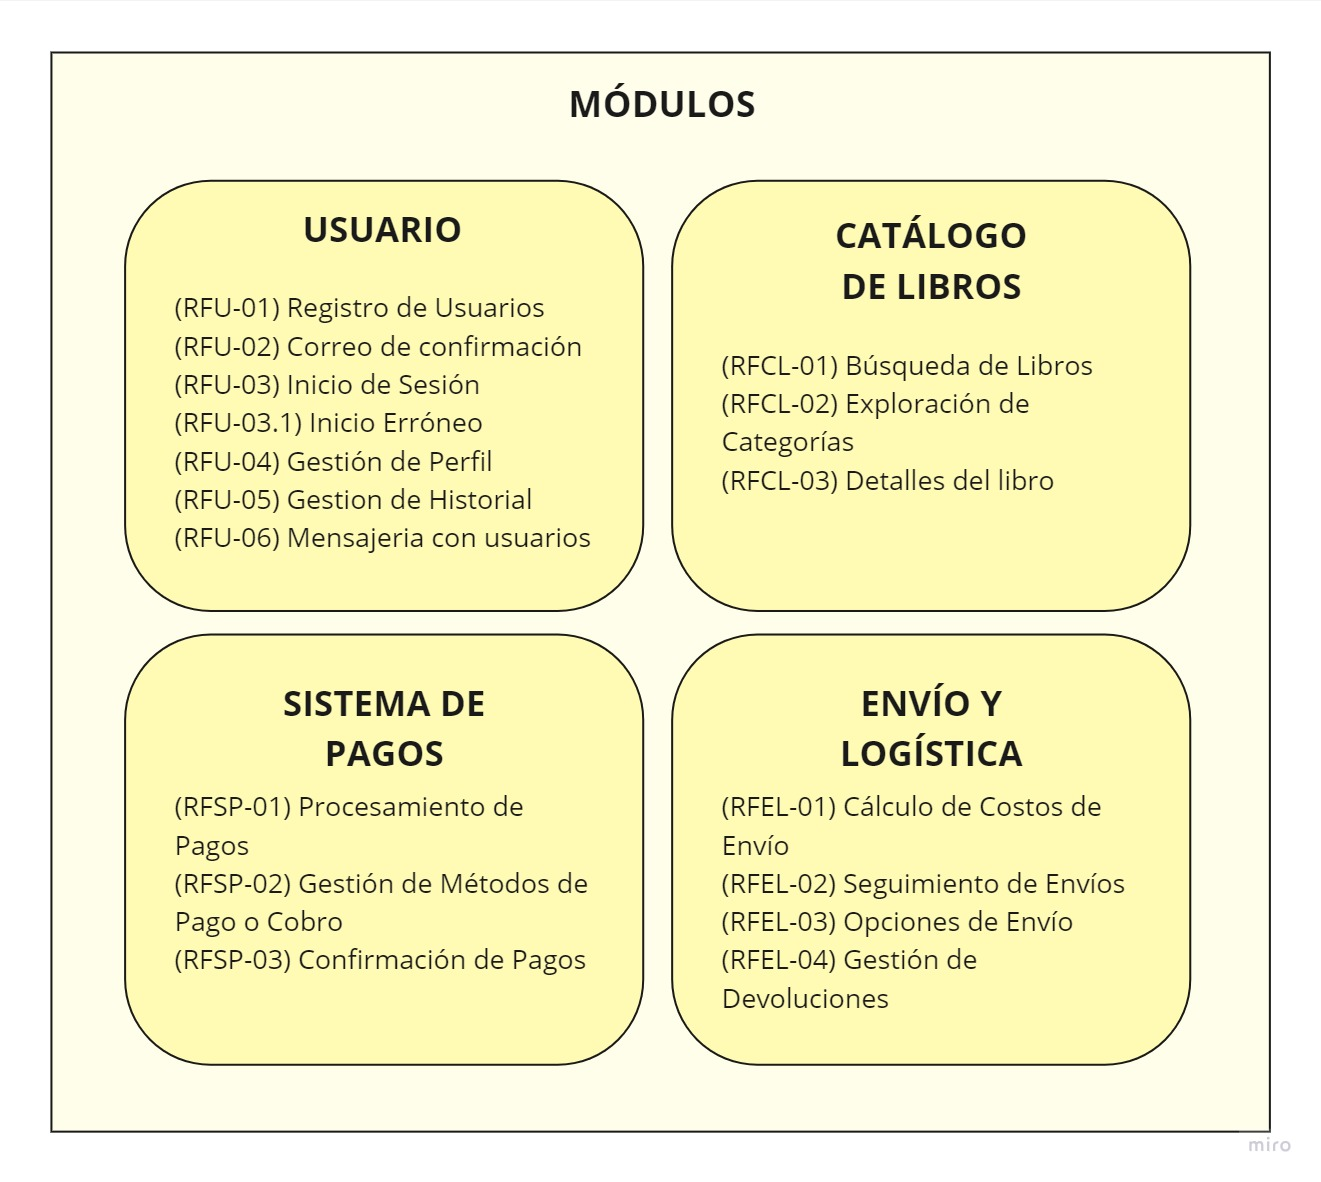
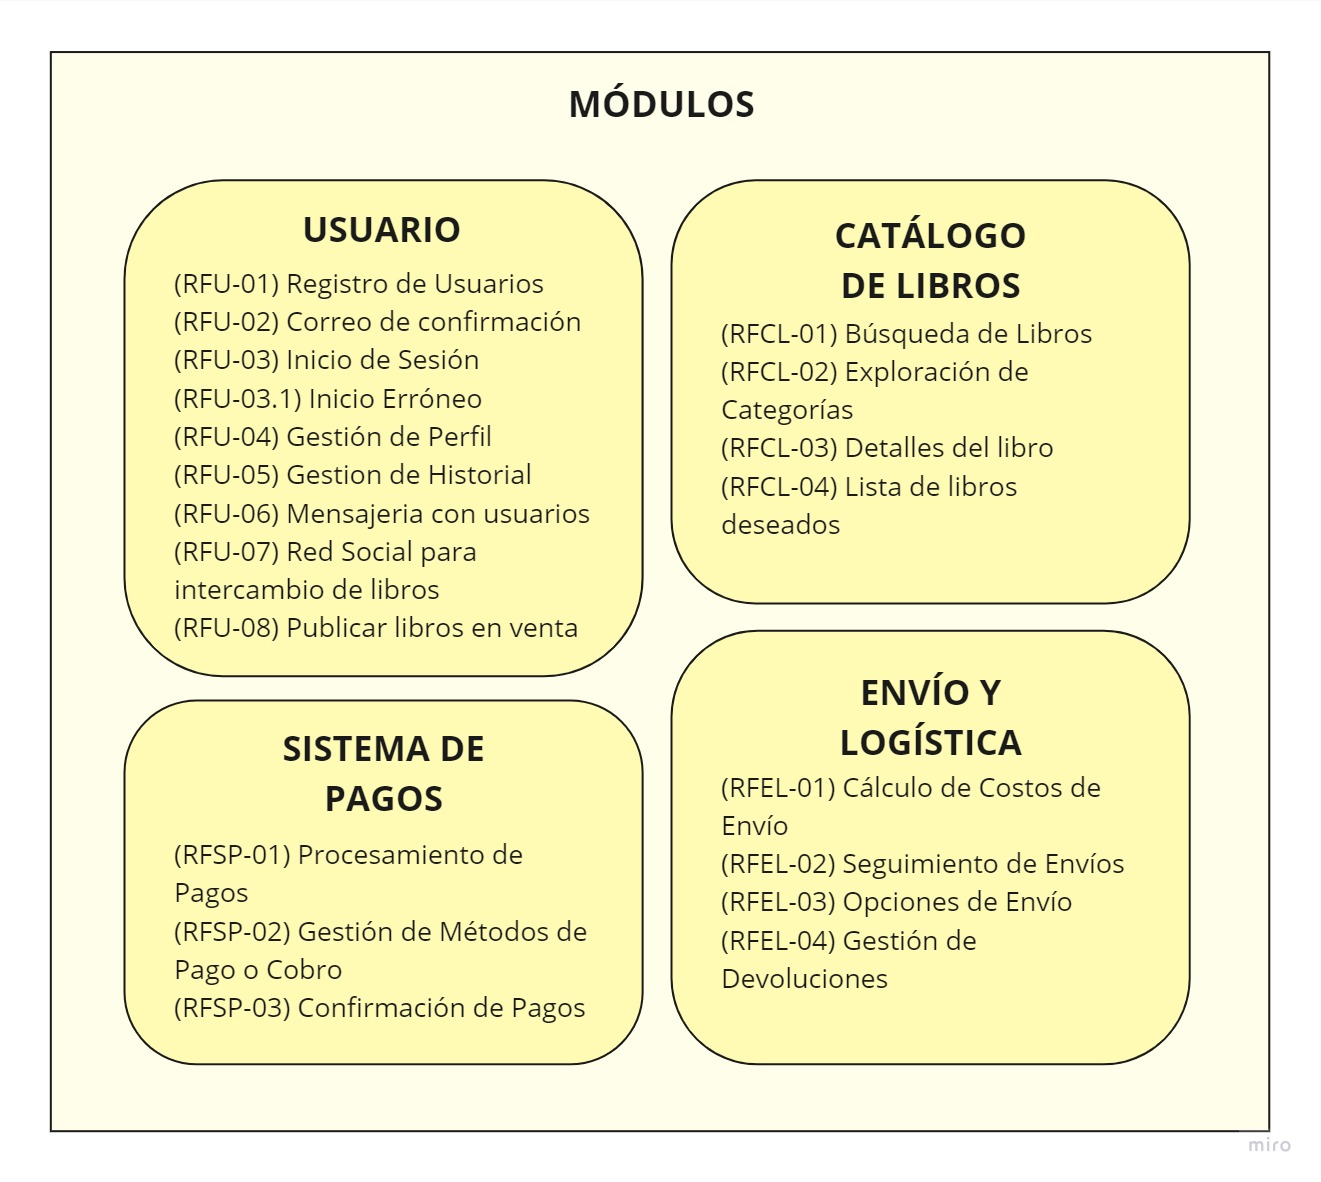
commit #

diff --git a/Bookswap.md b/Bookswap.md
@@ -163,35 +163,35 @@ Los stakeholders seleccionados para este trabajo son:
 #### 2.1.1. Usuario (Alex)
 
 
-- <b> Registro de Usuarios</b>: Los usuarios deben poder registrarse en la plataforma proporcionando información como nombre, dirección de correo electrónico y contraseña.
-- <b>Correo de confirmación</b>: Los usuarios recibiran un correo electrónico de confirmación para verificar la dirección de correo electrónico del usuario.
-- <b>Inicio de Sesión</b>: Los usuarios registrados deben poder iniciar sesión en sus cuentas utilizando su correo electrónico y contraseña.
-- <b>Inicio Erróneo</b>: Los usuarios en caso ingresen credenciales incorrectas, el sistema debe mostrar un mensaje de error, indicando que ingresen correctamente sus credenciales.
-- <b>Gestión de Perfil</b>: Los usuarios pueden editar su perfil, incluyendo información personal como nombre, dirección , contraseña y foto de perfil.
-- <b>Gestion de Historial</b>: Los usuarios pueden ver y editar su historial de intercambio de libros.
-- <b>Mensajeria con usuarios</b>: Los usuarios pueden enviar mensajes privados a los potenciales compradores/vendedores. 
-- <b> Red Social para intercambio de libros</b>: Los usuarios van a poder subir publicaciones en su página principal de los libros que les gusta o para ofrecer un intercambio, se podra dar me gusta a las publicaciones y comentar los posts, además se podrá agregar amigos.
- - <b> Publicar libros en venta </b>: Los usuarios pueden subir la información de los libros que quieren vender.
+- **Registro de Usuarios (RFU-01)**: Los usuarios deben poder registrarse en la plataforma proporcionando información como nombre, dirección de correo electrónico y contraseña.
+- **Correo de confirmación (RFU-02)**: Los usuarios recibiran un correo electrónico de confirmación para verificar la dirección de correo electrónico del usuario.
+- **Inicio de Sesión (RFU-03)**: Los usuarios registrados deben poder iniciar sesión en sus cuentas utilizando su correo electrónico y contraseña.
+- **Inicio Erróneo (RFU-03.1)**: Los usuarios en caso ingresen credenciales incorrectas, el sistema debe mostrar un mensaje de error, indicando que ingresen correctamente sus credenciales.
+- **Gestión de Perfil (RFU-04)**: Los usuarios pueden editar su perfil, incluyendo información personal como nombre, dirección , contraseña y foto de perfil.
+- **Gestion de Historial (RFU-05)**: Los usuarios pueden ver y editar su historial de intercambio de libros.
+- **Mensajeria con usuarios (RFU-06)**: Los usuarios pueden enviar mensajes privados a los potenciales compradores/vendedores. 
+- **Red Social para intercambio de libros (RFU-07)**: Los usuarios van a poder subir publicaciones en su página principal de los libros que les gusta o para ofrecer un intercambio, se podra dar me gusta a las publicaciones y comentar los posts, además se podrá agregar amigos.
+ - **Publicar libros en venta (RFU-08)** </b>: Los usuarios pueden subir la información de los libros que quieren vender.
 
 #### 2.1.2. Catálogo de libros (Bri)
 
-- <b>Búsqueda de Libros</b>: Los usuarios deben poder buscar libros en la plataforma utilizando filtros como título, autor, género, ubicación.
-- <b>Exploración de Categorías</b>: Los usuarios deben poder navegar y explorar diferentes categorías de libros para descubrir nuevas lecturas.
-- <b>Detalles del libro</b>: Los usuarios pueden ver información detallada sobre un libro, incluyendo su descripción, precio, estado y la ubicación del vendedor.
-- <b>Lista de libros deseados</b>: Los usuarios deben poder agregar libros a su lista de deseos.
+- **Búsqueda de Libros (RFCL-01)**: Los usuarios deben poder buscar libros en la plataforma utilizando filtros como título, autor, género, ubicación.
+- **Exploración de Categorías (RFCL-02)**: Los usuarios deben poder navegar y explorar diferentes categorías de libros para descubrir nuevas lecturas.
+- **Detalles del libro (RFCL-03)**: Los usuarios pueden ver información detallada sobre un libro, incluyendo su descripción, precio, estado y la ubicación del vendedor.
+- **Lista de libros deseados (RFCL-04)**: Los usuarios deben poder agregar libros a su lista de deseos.
 
 #### 2.1.3. Sistema de pagos (Daniel)
 
-- <b>Procesamiento de Pagos</b>: El sistema debe ser capaz de procesar pagos de manera segura y confiable cuando los usuarios realicen compras.
-- <b>Gestión de Métodos de Pago o Cobro</b>: Los usuarios pueden agregar, editar o eliminar métodos de pago o cobro, como tarjetas de crédito o cuentas bancarias.
-- <b>Confirmación de Pagos</b>: Los usuarios deben recibir una confirmación de pago exitoso después de realizar una compra o intercambio.
+- **Procesamiento de Pagos (RFSP-01)**: El sistema debe ser capaz de procesar pagos de manera segura y confiable cuando los usuarios realicen compras.
+- **Gestión de Métodos de Pago o Cobro (RFSP-02)**: Los usuarios pueden agregar, editar o eliminar métodos de pago o cobro, como tarjetas de crédito o cuentas bancarias.
+- **Confirmación de Pagos (RFSP-03)**: Los usuarios deben recibir una confirmación de pago exitoso después de realizar una compra o intercambio.
 
 #### 2.1.4. Envío y logísticas (Micali)
 
-- <b>Cálculo de Costos de Envío</b>: El sistema debe calcular los costos de envío para los compradores en función de la ubicación del vendedor y el comprador.
-- <b>Seguimiento de Envíos</b>: Los usuarios deben poder realizar un seguimiento de los envíos en tiempo real y recibir actualizaciones sobre la ubicación y el estado de la entrega.
-- <b>Opciones de Envío</b>: Los vendedores pueden ofrecer diferentes opciones de envío, como envío estándar o express, para que los compradores elijan.
-- <b>Gestión de Devoluciones</b>: Los usuarios deben poder solicitar devoluciones y gestionar el proceso de devolución de libros si el producto no cumple con las expectativas.
+- **Cálculo de Costos de Envío (RFEL-01)**: El sistema debe calcular los costos de envío para los compradores en función de la ubicación del vendedor y el comprador.
+- **Seguimiento de Envíos (RFEL-02)**: Los usuarios deben poder realizar un seguimiento de los envíos en tiempo real y recibir actualizaciones sobre la ubicación y el estado de la entrega.
+- **Opciones de Envío (RFEL-03)**: Los vendedores pueden ofrecer diferentes opciones de envío, como envío estándar o express, para que los compradores elijan.
+- **Gestión de Devoluciones (RFEL-04)**: Los usuarios deben poder solicitar devoluciones y gestionar el proceso de devolución de libros si el producto no cumple con las expectativas.
 
 <img src="img/modulos.jpg" width="60%"/>
 
